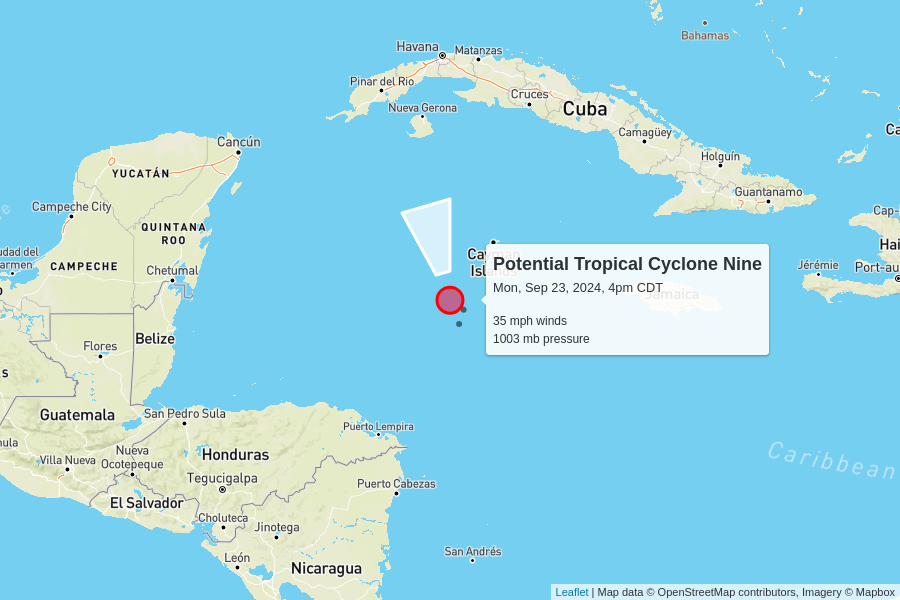
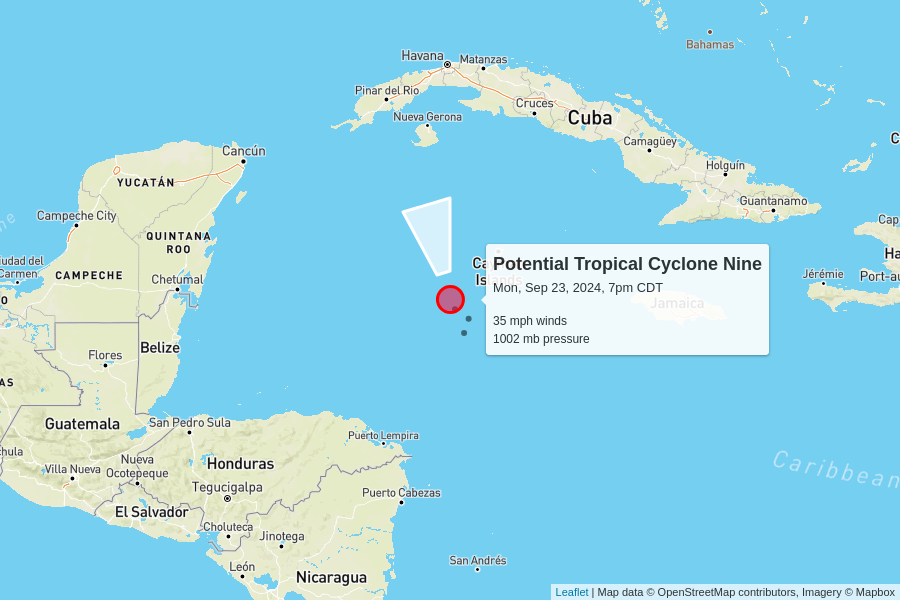
automatic update

diff --git a/docs/index.html b/docs/index.html
@@ -102,7 +102,7 @@
         <td colspan="6" class="storm category-0" >
           <h2>
             Potential Tropical Cyclone Nine
-            <p class="updated">last updated <span data-time>2024-09-23T21:00:00.000Z</span></p>
+            <p class="updated">last updated <span data-time>2024-09-24T00:00:00.000Z</span></p>
           </h2>
         </td>
       </tr>
@@ -117,8 +117,8 @@
       </tr>
       <tr>
         <td class="spacer"></td>
-        <td>35 mph<br>+5 mph since last update</td>
-        <td>1003 mb<br>-1 mb since last update</td>
+        <td>35 mph<br>0 mph since last update</td>
+        <td>1002 mb<br>-1 mb since last update</td>
         <td>
           7 mph to the north-northwest
           <br/>
